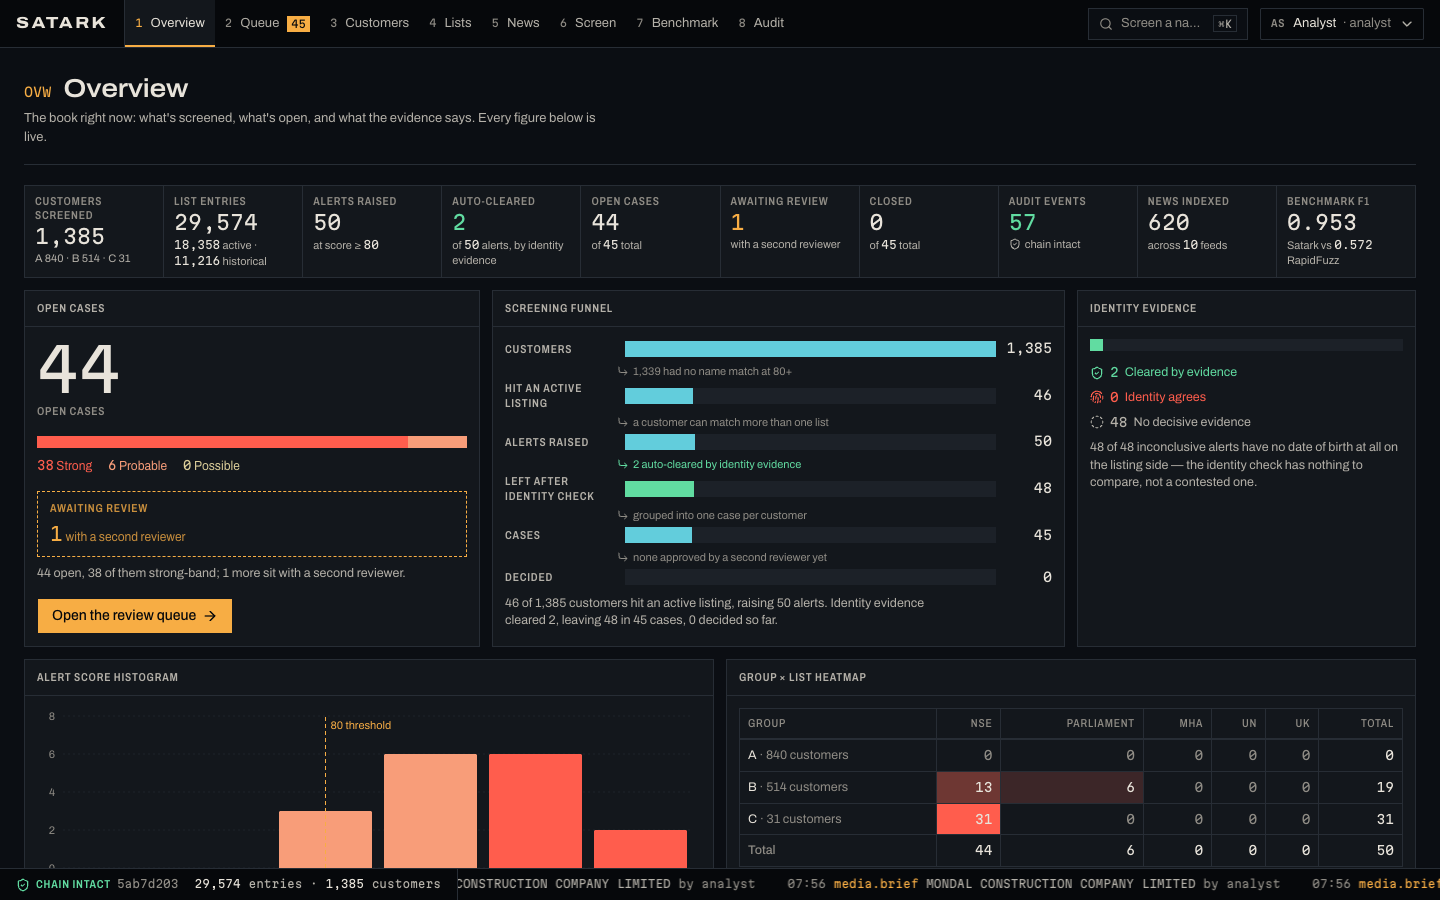
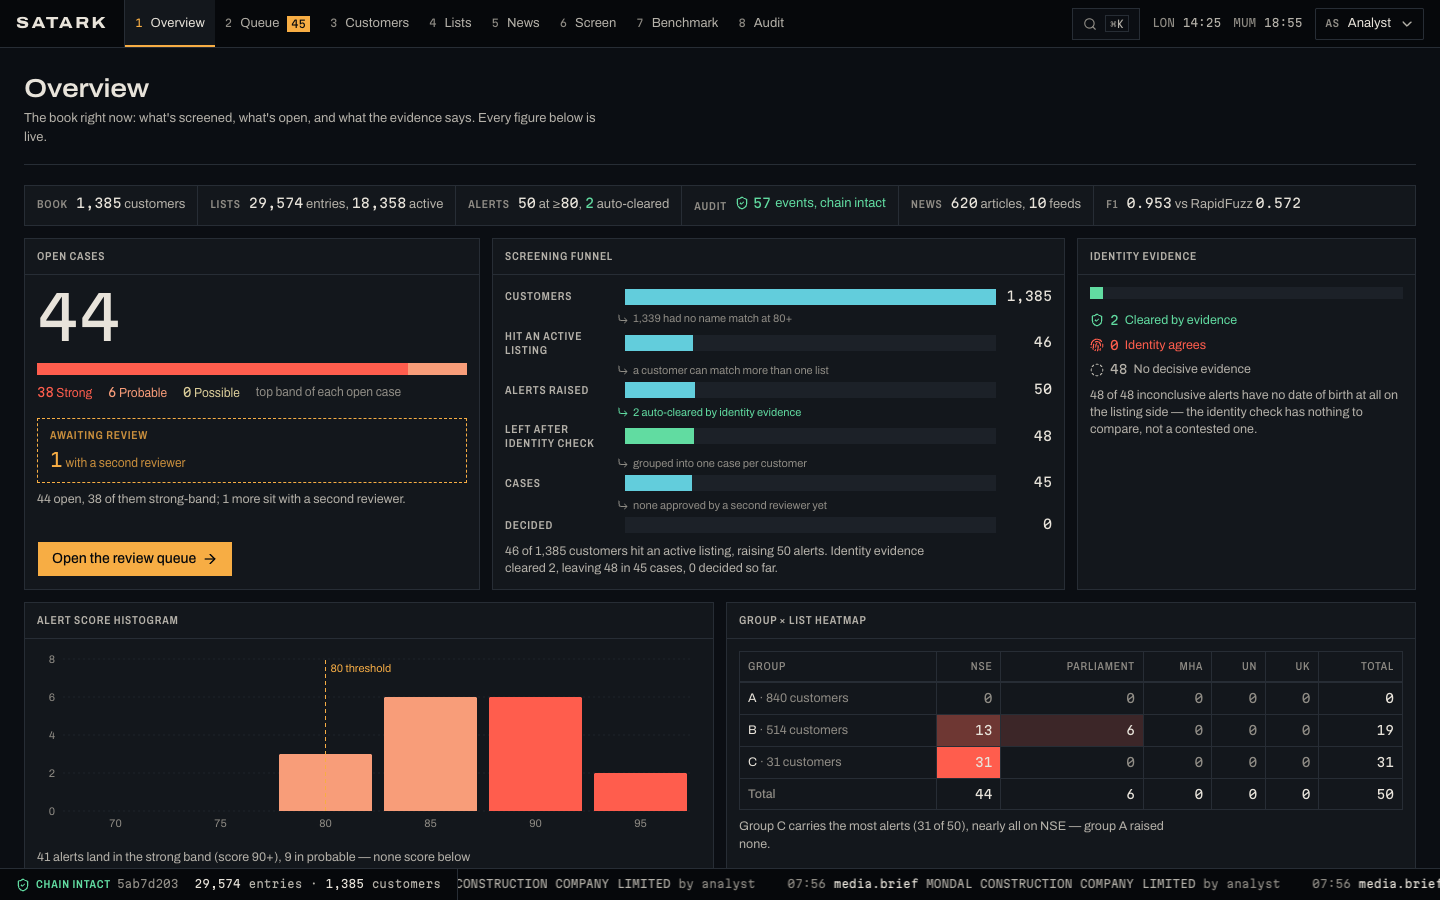
Docs: refreshed console screenshots, finish review in the build log

diff --git a/docs/build-log.md b/docs/build-log.md
@@ -290,3 +290,17 @@ The first console read as plain, white and generic. The owner asked for:
 | The news agent removed the manual feed poll to avoid writing during its checks | restored |
 
 `tsc` and `vite build` are clean, 118 backend tests pass, and no route scrolls horizontally at 1440 or 390 px. The design detector flags one intentional case: the landing page clips overflow to hold its single-screen hero.
+
+**Independent finish review.** A fresh reviewer agent, with no memory of the build, judged the screenshots against the request, the direction contract and the craft floor.
+
+- **Round 1: "fix", with eight findings.**
+  1. The News desk sections below the fold still read as lists.
+  2. Datelines came in several formats.
+  3. The desk clocks were hidden at 1440 px.
+  4. Rows of stat tiles repeated figures shown in the panels below.
+  5. Tables clipped on phones.
+  6. Tab codes sat beside page titles, acting as eyebrow labels.
+  7. Some colours and line forms broke the one-meaning rule.
+  8. Two screens counted "strong" cases over different sets.
+- **Round 2: six resolved.** Two fixes were partial, and the round found two regressions (News overflowing on phones, and a risk-desk count that disagreed with the masthead).
+- **After round 2.** Those four were fixed and checked by screenshot, but not re-reviewed: two rounds is the review budget.
